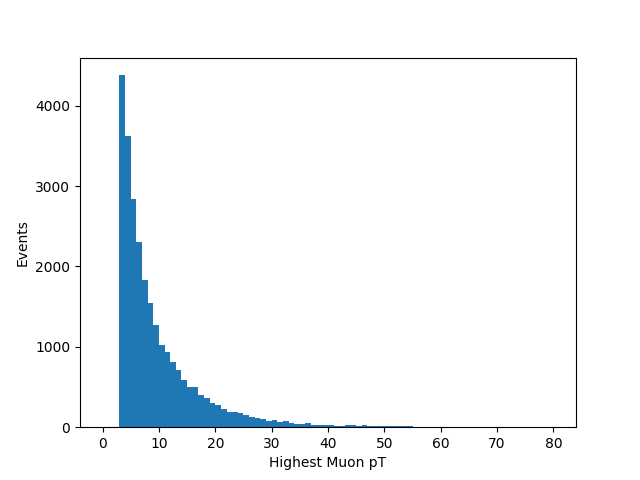
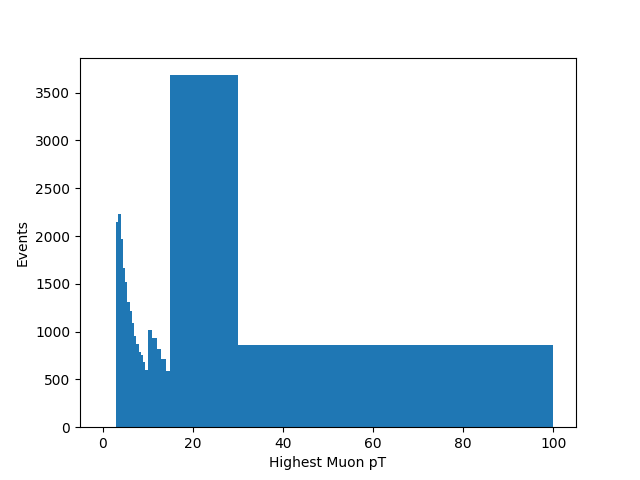
Updated trigger plots to have better bin zeroing

diff --git a/n00dle.py b/n00dle.py
@@ -51,10 +51,10 @@ def mc(files):
                     parentId = pdgida[event][parentIdx]
                     if abs(parentId) == 9000006:
                         outlist.append(36)
-                        #print(str(event) + " - " + str(iGen) + " = " + str(pt[event][iGen]))
+                        print(str(event) + " - " + str(iGen) + " = " + str(pt[event][iGen]))
 #
                     else:
-                        outlist.append(parentId)
+                        outlist.append(abs(parentId))
         # Fill out histogram with the list of values we obtained
         pdgplt.fill(outlist)
         
@@ -71,8 +71,8 @@ def mc(files):
 
 def ana(files):
     ## Define what pdgId we expect the A to have
-    #Aid = 9000006
-    Aid = 36
+    Aid = 9000006
+    #Aid = 36
     ## Make a dictionary of histogram objects
     bjplots = {}
     for i in range(1,5):
@@ -113,6 +113,7 @@ def ana(files):
         parida  = pdgida[paridxa] 
 
         bs = PhysObj('bs')
+        matchedbs = PhysObj('matchedbs')
 
         ## Removes all particles that do not have A parents 
         ## from the GenPart arrays, then removes all particles 
@@ -122,6 +123,7 @@ def ana(files):
         bs.pt  = pd.DataFrame(events.array('GenPart_pt' )[abs(parida)==Aid][abs(pdgida)[parida==Aid]==5]).rename(columns=inc)
         
         jets = PhysObj('jets')
+        matchedjets = PhysObj('matchedjets')
 
         jets.eta= pd.DataFrame(events.array('Jet_eta')).rename(columns=inc)
         jets.phi= pd.DataFrame(events.array('Jet_phi')).rename(columns=inc)
@@ -164,6 +166,7 @@ def ana(files):
                     continue
                 ## Compute and store the dr of the given b and jet for every event at once
                 jbdr2[jbstr[-1]] = pd.DataFrame(np.power(jets.eta[j]-bs.eta[b],2) + np.power(jets.phi[j]-bs.phi[b],2))
+
 
         ## Create a copy array to collapse in jets instead of bs
         blist = []
@@ -228,20 +231,21 @@ def ana(files):
 
 def trig(files):
     ## Create a dictionary of histogram objects
+    rptbins = [0,0.5,1,1.5,2,2.5,3,3.5,4,4.5,5,5.5,6,6.5,7,7.5,8,8.5,9,9.5,10,11,12,13,14,15,30,100]
     plots = {
-        'hptplot':      Hist(80,(0,80),'Highest Muon pT','Events','upplots/TrigHpTplot'),
-        'ptplot':       Hist(80,(0,80),'Highest Muon pT','Events','upplots/TrigpTplot'),
-        'ratioptplot':  Hist(80,(0,80),'Highest Muon pT','HLT_Mu7_IP4 / Events with Muons of sip > 5','upplots/TrigRatiopTPlot'),
+        'hptplot':      Hist(rptbins,None,'Highest Muon pT','Events','upplots/TrigHpTplot'),
+        'ptplot':       Hist(rptbins,None,'Highest Muon pT','Events','upplots/TrigpTplot'),
+        'ratioptplot':  Hist(rptbins,None,'Highest Muon pT','HLT_Mu7_IP4 / Events with Muons of sip > 5','upplots/TrigRatiopTPlot'),
         'sipplot':      Hist(20,(0,20),'Highest Muon SIP', 'Events', 'upplots/TrigSIPplot'),
         'hsipplot':     Hist(20,(0,20),'Highest Muon SIP', 'Events', 'upplots/TrigHSIPplot'),
-        'ratiosipplot': Hist(20,(0,20),'Highest Muon SIP', 'HLT_Mu7_IP4 / Events with muons of sip > 5', 'upplots/TrigRatioSIPplot'),
+        'ratiosipplot': Hist(20,(0,20),'Highest Muon SIP', 'HLT_Mu7_IP4 / Events with muons of pT > 10', 'upplots/TrigRatioSIPplot'),
         'HLTcutflow':      Hist(12,(-0.5,11.5),'All // HLT_Mu7/8/9/12_IP4/3,5,6/4,5,6/6','Events','upplots/cutflowHLT'),
         'L1Tcutflow':      Hist(12,(-0.5,11.5),'All // L1_SingleMu6/7/8/9/10/12/14/16/18','Events','upplots/cutflowL1T'),
         'HLTcutflowL':      Hist(12,(-0.5,11.5),'All // HLT_Mu7/8/9/12_IP4/3,5,6/4,5,6/6','Events','upplots/cutflowHLT-L'),
         'L1TcutflowL':      Hist(12,(-0.5,11.5),'All // L1_SingleMu6/7/8/9/10/12/14/16/18','Events','upplots/cutflowL1T-L')
 
     }
-    cutflow2d = Hist2d([12,12],[[-0.5,11.5],[-0.5,11.5]],'All // HLT_Mu7/8/9/12_IP4/3,5,6/4,5,6/6',
+    cutflow2d = Hist2d([9,10],[[-0.5,8.5],[-0.5,9.5]],'All // HLT_Mu7/8/9/12_IP4/3,5,6/4,5,6/6',
         'All // L1_SingleMu6/7/8/9/10/12/14/16/18','upplots/cutflowHLTvsL1T')
     ## Create an internal figure for pyplot to write to
     plt.figure(1)
@@ -269,19 +273,21 @@ def trig(files):
    
         ## Fill 0 bin of cut flow plots
 
-        plots['HLTcutflow'].fill((Muon.pt*0).max(axis=1).dropna())
-        plots['L1Tcutflow'].fill((Muon.pt*0).max(axis=1).dropna())
+        plots['HLTcutflow'].dfill(HLT[HLTcuts[0]]*0)
+        plots['L1Tcutflow'].dfill(L1T[L1Tcuts[0]]*0)
         cutflow2d.dfill(HLT[HLTcuts[0]]*0,HLT[HLTcuts[0]]*0)
 
  
         ## Fill the rest of the bins
         ct = 1
         for i in HLT:
-            plots['HLTcutflow'].dfill(((HLT[i]==True).dropna())*ct)
+            plots['HLTcutflow'].dfill(HLT[i][HLT[i]].dropna()*ct)
+            cutflow2d.dfill(HLT[i][HLT[i]].dropna()*ct,HLT[i][HLT[i]].dropna()*0)
             ct = ct + 1
         ct = 1
         for i in L1T:
-            plots['L1Tcutflow'].dfill(((L1T[i]==True)*ct).dropna())
+            plots['L1Tcutflow'].dfill(L1T[i][L1T[i]].dropna()*ct)
+            cutflow2d.dfill(L1T[i][L1T[i]].dropna()*0,L1T[i][L1T[i]].dropna()*ct)
             ct = ct + 1
 
         ht = 1
@@ -326,9 +332,9 @@ def trig(files):
     plots['L1TcutflowL'].add(plots['L1Tcutflow'])
     cutflow2d.norm()[0][0][0] = 0
     cutflow2d.plot(text=True,edgecolor='black')
-    plots.pop('HLTcutflowL').norm().plot(ylim=(None,.1))
-    plots.pop('L1TcutflowL').norm().plot(ylim=(None,.1))
-    plots.pop('HLTcutflow').norm().plot(logv=True)
+    plots.pop('HLTcutflowL').norm().plot(ylim=(None,.2))
+    plots.pop('L1TcutflowL').norm().plot(ylim=(None,.2))
+    plots.pop('HLTcutflow').norm().plot()
     plots.pop('L1Tcutflow').norm().plot()
 
     for pl in plots:

diff --git a/analib.py b/analib.py
@@ -70,7 +70,8 @@ class Hist(object):
 
     ## Creates and returns a pyplot-compatible histogram object
     def make(s,logv=False):
-        return plt.hist(s.hs[1][:s.size],s.size,s.bounds,weights=s.hs[0],log=logv)
+        print(s.hs)
+        return plt.hist(s.hs[1][:-1],s.size,s.bounds,weights=s.hs[0],log=logv)
 
     def plot(s,logv=False,ylim=False):
         plt.clf()
@@ -124,14 +125,14 @@ class Hist2d(object):
     def make(s,edgecolor='',linewidth=1):
         plt.clf()
         #out = plt.imshow(s.hs[0].T[::-1],extent=(s.bounds[0][0],s.bounds[0][1],s.bounds[1][0],s.bounds[1][1]),aspect='auto',origin='upper')
-        out = plt.pcolor(s.hs[2],s.hs[1],s.hs[0].T,edgecolor=edgecolor,linewidth=linewidth)
+        out = plt.pcolor(s.hs[1],s.hs[2],s.hs[0].T,edgecolor=edgecolor,linewidth=linewidth)
         return out    
 
     def plot(s,logv=False,text=False,edgecolor='',linewidth=1):
         s.make(edgecolor)
-        print(s.hs[0])
-        print(s.hs[1])
-        print(s.hs[2])
+        #print(s.hs[0])
+        #print(s.hs[1])
+        #print(s.hs[2])
         if text:
             strarray = s.hs[0].round(3).astype(str)
             for i in range(len(s.hs[1])-1):
